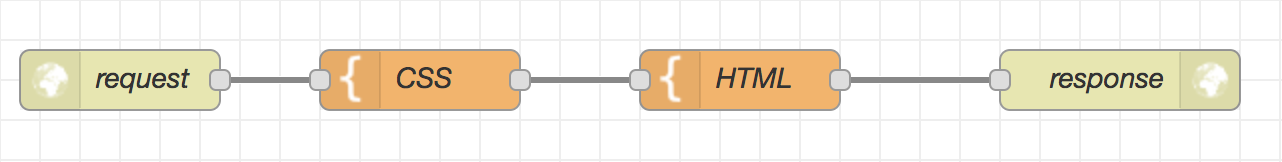
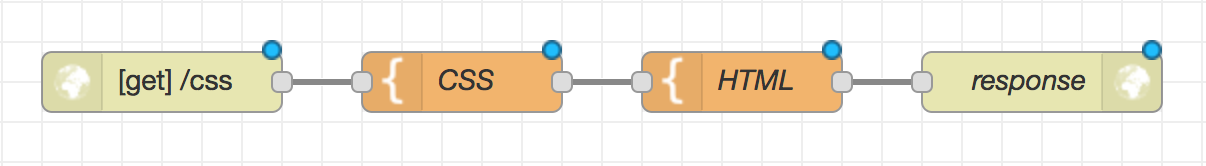
要求例追加

Changed region(s): [[0.0, 0.2469, 0.7056, 0.7099], [0.7363, 0.2469, 0.9818, 0.7099]]

diff --git a/apply-css/README.md b/apply-css/README.md
@@ -5,5 +5,7 @@
 CSSを適用するレシピ
 
 ```
-[{"id":"532bb87.6014848","type":"http in","z":"b79b4208.d35c68","name":"request","url":"/hoge","method":"get","upload":false,"swaggerDoc":"","x":100,"y":60,"wires":[["511c15fc.432f7c"]]},{"id":"4f30c2dd.5432ec","type":"http response","z":"b79b4208.d35c68","name":"response","statusCode":"","headers":{},"x":600,"y":60,"wires":[]},{"id":"c8243612.e7eff8","type":"template","z":"b79b4208.d35c68","name":"HTML","field":"payload","fieldType":"msg","format":"html","syntax":"mustache","template":"<style type=\"text/css\">{{{payload.css}}}</style>\n<h1>Hello, Node-RED</h1>\n<input class=\"raised\" type=\"button\" value=\"Click Me\">","output":"str","x":410,"y":60,"wires":[["4f30c2dd.5432ec"]]},{"id":"511c15fc.432f7c","type":"template","z":"b79b4208.d35c68","name":"CSS","field":"payload.css","fieldType":"msg","format":"css","syntax":"mustache","template":"h1{\nposition: relative;\npadding: 0.5em;\nbackground: #a6d3c8;\ncolor: white;\n}\n\nh1::before {\nposition: absolute;\ncontent: '';\ntop: 100%;\nleft: 0;\nborder: none;\nborder-bottom: solid 15px transparent;\nborder-right: solid 20px rgb(149, 158, 155);\n}\n\n.raised{\n  display: inline-block;\n  background-color: #26a69b;\n  color: #FFF;\n  font-size: 1em;\n  line-height: 1;\n  text-decoration: none;\n  letter-spacing: 0.05em;\n  padding: 0.2em 1em;\n  border-radius: 3px;\n    cursor: pointer;\n  box-shadow: 0 2px 2px 0 rgba(0,0,0,0.14), 0 1px 5px 0 rgba(0,0,0,0.12), 0 3px 1px -2px rgba(0,0,0,0.2);/*影*/\n  -webkit-tap-highlight-color: transparent;\n  transition: .3s ease-out;\n}\n\n.raised:hover{\n    box-shadow: 0 3px 3px 0 rgba(0,0,0,0.14), 0 1px 7px 0 rgba(0,0,0,0.12), 0 3px 1px -1px rgba(0,0,0,0.2);/*浮き上がるように*/\n}\n\ninput[type=\"button\"]:focus {\n  outline: 0;\n}\n","output":"str","x":250,"y":60,"wires":[["c8243612.e7eff8"]]}]
+[{"id":"76087eec.5388b","type":"http in","z":"4faf54ca.3a4afc","name":"","url":"/css","method":"get","upload":false,"swaggerDoc":"","x":100,"y":60,"wires":[["541e041d.c9ac2c"]]},{"id":"a5ece4f7.299288","type":"http response","z":"4faf54ca.3a4afc","name":"response","statusCode":"","headers":{},"x":540,"y":60,"wires":[]},{"id":"a64130f9.8b0a4","type":"template","z":"4faf54ca.3a4afc","name":"HTML","field":"payload","fieldType":"msg","format":"html","syntax":"mustache","template":"<style type=\"text/css\">{{{payload.css}}}</style>\n<h1>Hello, Node-RED</h1>\n<input class=\"raised\" type=\"button\" value=\"Click Me\">","output":"str","x":390,"y":60,"wires":[["a5ece4f7.299288"]]},{"id":"541e041d.c9ac2c","type":"template","z":"4faf54ca.3a4afc","name":"CSS","field":"payload.css","fieldType":"msg","format":"css","syntax":"mustache","template":"h1{\nposition: relative;\npadding: 0.5em;\nbackground: #a6d3c8;\ncolor: white;\n}\n\nh1::before {\nposition: absolute;\ncontent: '';\ntop: 100%;\nleft: 0;\nborder: none;\nborder-bottom: solid 15px transparent;\nborder-right: solid 20px rgb(149, 158, 155);\n}\n\n.raised{\n  display: inline-block;\n  background-color: #26a69b;\n  color: #FFF;\n  font-size: 1em;\n  line-height: 1;\n  text-decoration: none;\n  letter-spacing: 0.05em;\n  padding: 0.2em 1em;\n  border-radius: 3px;\n    cursor: pointer;\n  box-shadow: 0 2px 2px 0 rgba(0,0,0,0.14), 0 1px 5px 0 rgba(0,0,0,0.12), 0 3px 1px -2px rgba(0,0,0,0.2);/*影*/\n  -webkit-tap-highlight-color: transparent;\n  transition: .3s ease-out;\n}\n\n.raised:hover{\n    box-shadow: 0 3px 3px 0 rgba(0,0,0,0.14), 0 1px 7px 0 rgba(0,0,0,0.12), 0 3px 1px -1px rgba(0,0,0,0.2);/*浮き上がるように*/\n}\n\ninput[type=\"button\"]:focus {\n  outline: 0;\n}\n","output":"str","x":250,"y":60,"wires":[["a64130f9.8b0a4"]]}]
 ```
+
+要求例: https://nodered-recipes-sample.mybluemix.net/css
